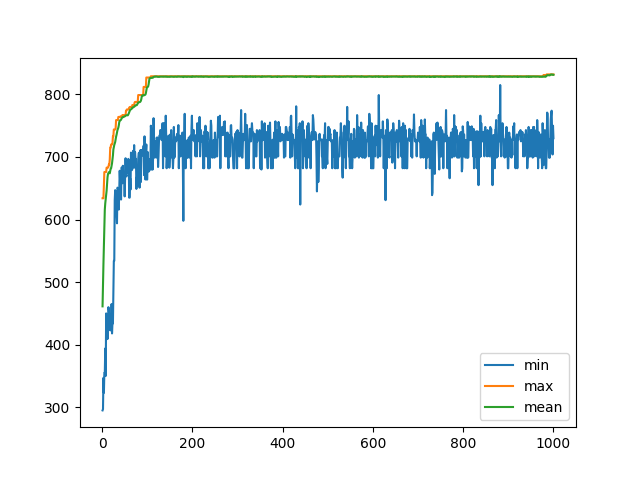
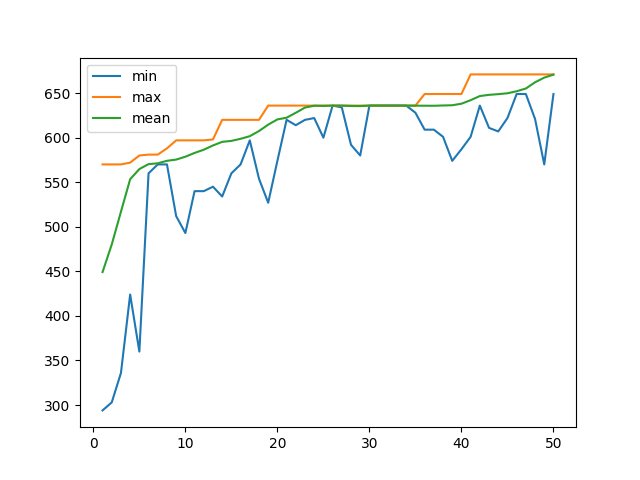
lamarckまで完了

diff --git a/assignment5/assignment5_lamarck.py b/assignment5/assignment5_lamarck.py
@@ -20,6 +20,8 @@ Wikipediaの実装例に従って実装を行う。
 選択法: トーナメント法(5個取り出す)
 個体数: 50とする
 世代数: 100
+
+baldwinはスコアの計算方法を変えることが本質, 山登り法でスコアを計算すること
 """
 import argparse 
 import copy
@@ -30,9 +32,9 @@ from tqdm import tqdm
 
 def make_args():
     parser = argparse.ArgumentParser()
-    parser.add_argument("--generation", "-g", type = int, default=50,)
+    parser.add_argument("--generation", "-g", type = int, default=100,)
     parser.add_argument("--path", "-p", type = str, default="input1.txt")
-    parser.add_argument("--num_entity", "-n", type = int, default=100)
+    parser.add_argument("--num_entity", "-n", type = int, default=50)
     args = parser.parse_args()
     return args
 
@@ -90,6 +92,25 @@ def calc_score(entity, ways, doprint = False):
         score += X_s.count(0)
     return score
 
+def climbing_score(entity, ways, T: int):
+    """
+    山登り法でスコアを計算する, 1回indexを入れ替えた状態での最適値を求める
+    waysは1始まりindexであることに注意
+    Tは作業数
+    """
+    max_score = calc_score(entity, ways)
+    max_entity = entity
+    for i in range(T-1):
+        for j in range(i+1, T):
+            new_entity = copy.copy(entity)
+            new_entity[i], new_entity[j] = new_entity[j], new_entity[i]
+            new_score = calc_score(new_entity, ways)
+            if new_score > max_score:
+                max_score = new_score
+                max_entity = new_entity
+    return max_score, max_entity
+
+
 def translate_entity(entity):
     for symbol in entity:
         if symbol == 1:
@@ -126,8 +147,9 @@ if __name__ == "__main__":
 
     scores = [0] * args.num_entity
     #この世代のscoreを計算する
-    for idx, entity in enumerate(entities):
-        scores[idx] = calc_score(entity, ways)
+    for idx, entity in tqdm(enumerate(entities)):
+        #scores[idx] = calc_score(entity, ways)
+        scores[idx], entities[idx] = climbing_score(entity, ways, T)
     
     print(np.max(scores))
     results = []
@@ -154,13 +176,14 @@ if __name__ == "__main__":
         scores = [0] * len(entities)
         #この世代のscoreを計算する
         for idx, entity in enumerate(entities):
-            scores[idx] = calc_score(entity, ways)
+            #scores[idx] = calc_score(entity, ways)
+            scores[idx], entities[idx] = climbing_score(entity, ways, T)
         results.append([generation + 1, np.min(scores), np.max(scores), np.mean(scores)])
     results = np.array(results)
     plt.plot(results[:,0], results[:,1])
     plt.plot(results[:,0], results[:,2])
     plt.plot(results[:,0], results[:,3])
     plt.legend(["min", "max", "mean"])
-    plt.savefig("darwin.png")
+    plt.savefig("lamarck.png")
     print(np.max(scores))
     

diff --git a/assignment5/assignment5_baldwin.py b/assignment5/assignment5_baldwin.py
@@ -20,6 +20,8 @@ Wikipediaの実装例に従って実装を行う。
 選択法: トーナメント法(5個取り出す)
 個体数: 50とする
 世代数: 100
+
+baldwinはスコアの計算方法を変えることが本質, 山登り法でスコアを計算すること
 """
 import argparse 
 import copy
@@ -30,9 +32,9 @@ from tqdm import tqdm
 
 def make_args():
     parser = argparse.ArgumentParser()
-    parser.add_argument("--generation", "-g", type = int, default=50,)
+    parser.add_argument("--generation", "-g", type = int, default=100,)
     parser.add_argument("--path", "-p", type = str, default="input1.txt")
-    parser.add_argument("--num_entity", "-n", type = int, default=100)
+    parser.add_argument("--num_entity", "-n", type = int, default=50)
     args = parser.parse_args()
     return args
 
@@ -90,6 +92,25 @@ def calc_score(entity, ways, doprint = False):
         score += X_s.count(0)
     return score
 
+def climbing_score(entity, ways, T: int):
+    """
+    山登り法でスコアを計算する, 1回indexを入れ替えた状態での最適値を求める
+    waysは1始まりindexであることに注意
+    Tは作業数
+    """
+    max_score = calc_score(entity, ways)
+    max_entity = entity
+    for i in range(T-1):
+        for j in range(i+1, T):
+            new_entity = copy.copy(entity)
+            new_entity[i], new_entity[j] = new_entity[j], new_entity[i]
+            new_score = calc_score(new_entity, ways)
+            if new_score > max_score:
+                max_score = new_score
+                max_entity = new_entity
+    return max_score, max_entity
+
+
 def translate_entity(entity):
     for symbol in entity:
         if symbol == 1:
@@ -126,8 +147,9 @@ if __name__ == "__main__":
 
     scores = [0] * args.num_entity
     #この世代のscoreを計算する
-    for idx, entity in enumerate(entities):
-        scores[idx] = calc_score(entity, ways)
+    for idx, entity in tqdm(enumerate(entities)):
+        #scores[idx] = calc_score(entity, ways)
+        scores[idx], _ = climbing_score(entity, ways, T)
     
     print(np.max(scores))
     results = []
@@ -154,13 +176,14 @@ if __name__ == "__main__":
         scores = [0] * len(entities)
         #この世代のscoreを計算する
         for idx, entity in enumerate(entities):
-            scores[idx] = calc_score(entity, ways)
+            #scores[idx] = calc_score(entity, ways)
+            scores[idx], _ = climbing_score(entity, ways, T)
         results.append([generation + 1, np.min(scores), np.max(scores), np.mean(scores)])
     results = np.array(results)
     plt.plot(results[:,0], results[:,1])
     plt.plot(results[:,0], results[:,2])
     plt.plot(results[:,0], results[:,3])
     plt.legend(["min", "max", "mean"])
-    plt.savefig("darwin.png")
+    plt.savefig("baldwin.png")
     print(np.max(scores))
     
